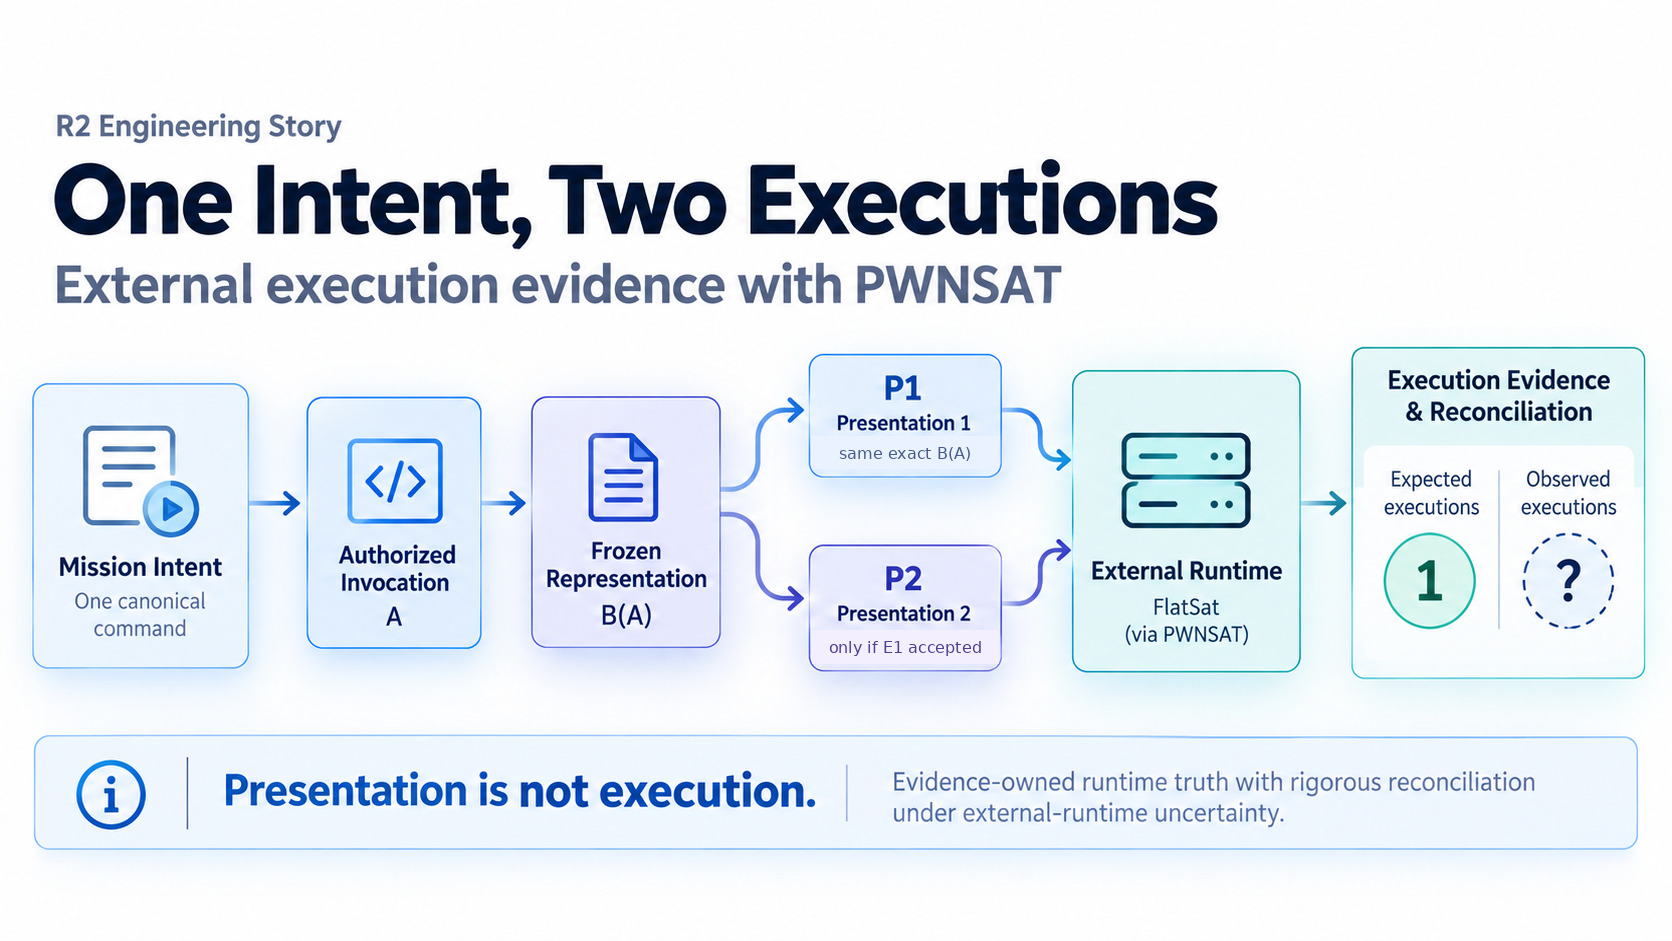
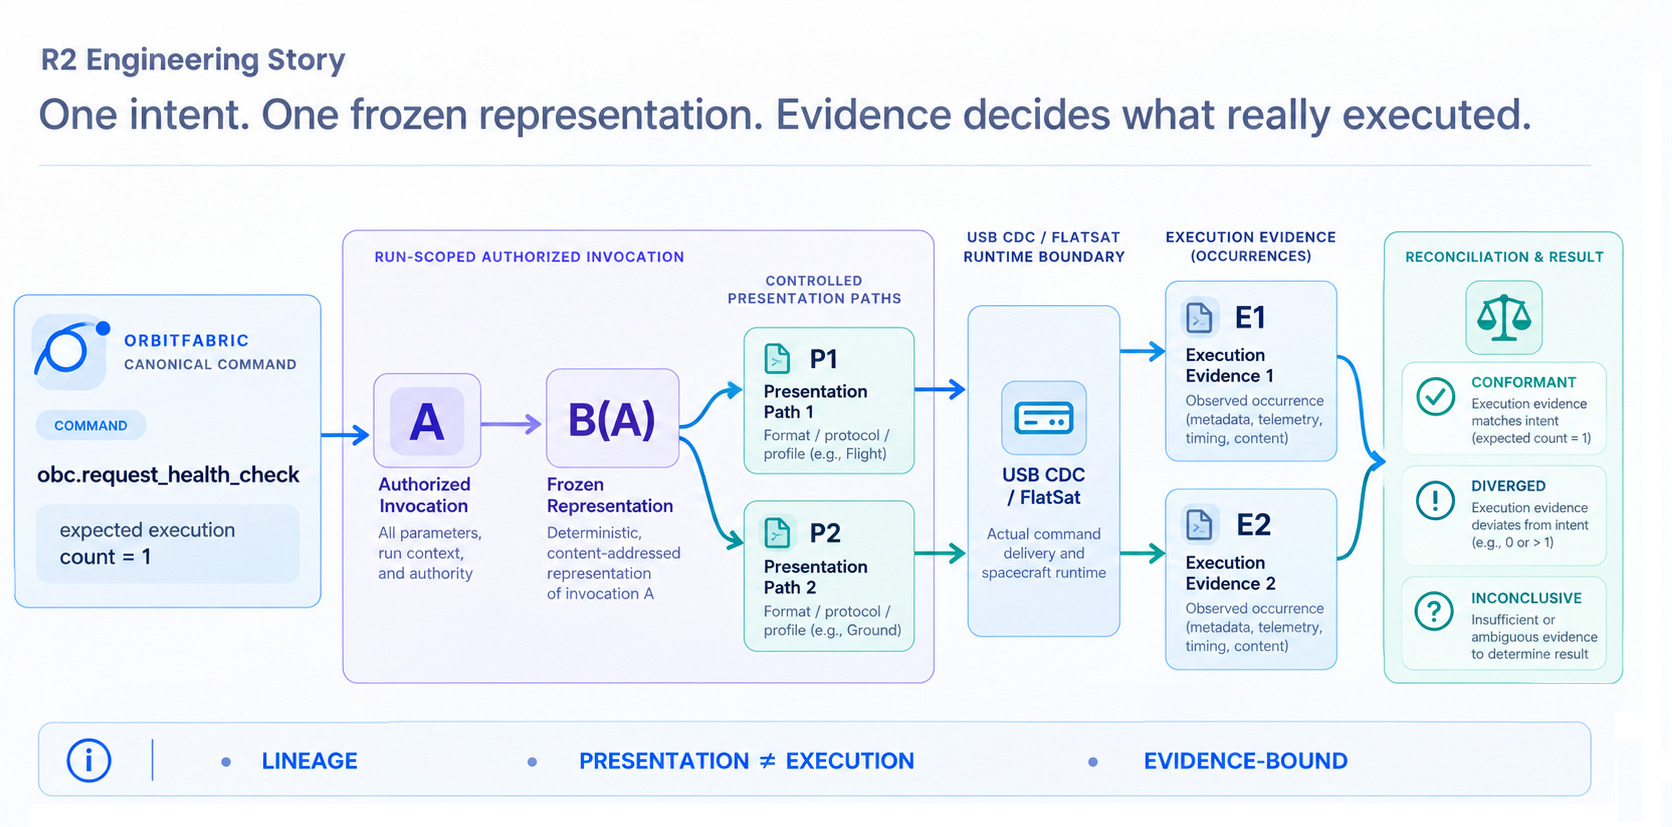
Restore Story H1 titles and replace front images

diff --git a/docs/engineering-stories/r1-flight-ground/index.md b/docs/engineering-stories/r1-flight-ground/index.md
@@ -2,7 +2,9 @@
 title: One Mission Contract Across Flight and Ground
 ---
 
-![R1 Engineering Story. One canonical OrbitFabric mission meaning branches into native F Prime flight and OpenC3 COSMOS ground paths, then converges in a verified live stop-acquisition loop.](../../assets/engineering-stories/r1-flight-ground/r1-cover.png)
+# One Mission Contract Across Flight and Ground
+
+![R1 Engineering Story. One canonical OrbitFabric mission meaning branches into native F Prime flight and OpenC3 COSMOS ground paths, then converges in a verified live stop-acquisition loop.](../../assets/engineering-stories/r1-flight-ground/r1-cover.jpg)
 
 *A mission has concepts that should mean one thing, even when those concepts must live inside systems that have good reasons to be different.*
 

diff --git a/docs/engineering-stories/r2-pwnsat/index.md b/docs/engineering-stories/r2-pwnsat/index.md
@@ -4,6 +4,8 @@ description: A source-grounded OrbitFabric Engineering Story about PWNSAT FlatSa
 r2_social_image: engineering-stories/r2-pwnsat/images/r2-cover.jpg
 ---
 
+# One Intent, Two Executions
+
 ![R2 Engineering Story. One mission intent leads to one authorized invocation and a frozen representation; two controlled presentations target FlatSat, while expected execution count one is compared with evidence-supported observed multiplicity.](images/r2-cover.jpg)
 
 *R1 worked. R2 began when I stopped asking how to demonstrate the architecture and started asking how to make it prove something I did not already control.*
